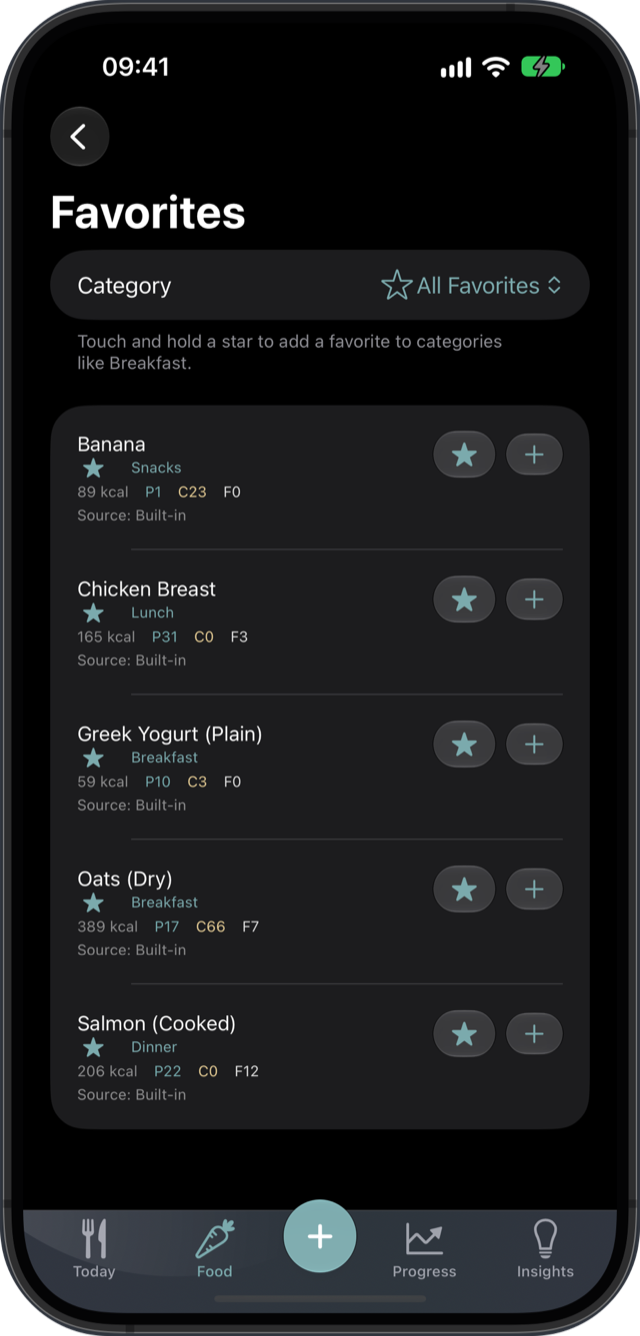
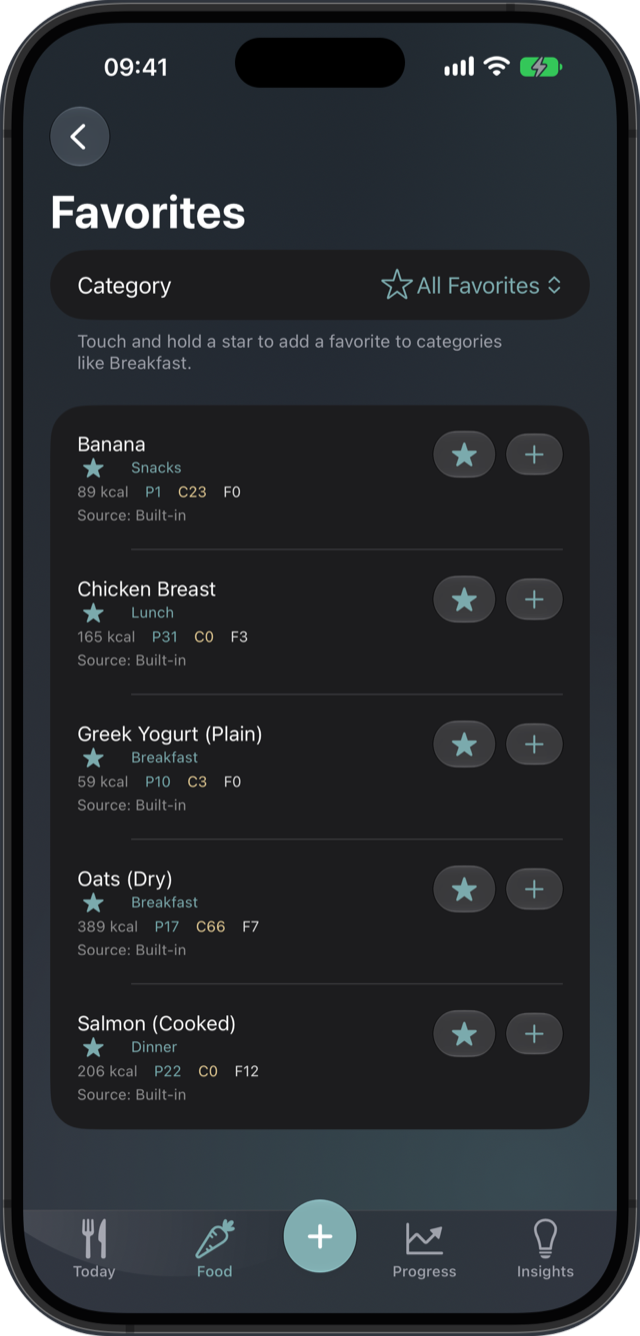
DietApp Pro's page: the day as a watch face, on Apple Watch and as the Chrono widget
The watch section opens with the full-screen face and names the complications for the calories, each macro, water and a fast. The widgets' line and picture show the Chrono widget. Favorites is retaken on the app's backdrop.

diff --git a/dietapp/index.html b/dietapp/index.html
@@ -192,24 +192,25 @@
       <div class="section-head">
         <p class="eyebrow">On your wrist</p>
         <h2 id="watch-title">iPhone and Apple Watch</h2>
-        <p>The Apple Watch app comes with the iPhone app. See what's left of the day, log your usual meal
-          or a food you had lately in a tap, and add a glass of water, with the iPhone in another
+        <p>The Apple Watch app comes with the iPhone app. See the day as a watch face, log your usual
+          meal or a food you had lately in a tap, and add a glass of water, with the iPhone in another
           room.</p>
       </div>
       <figure class="device device-watch">
         <div class="watch-pair">
+          <img src="screenshots/devices/watch-face.png" width="502" height="582" loading="lazy"
+            alt="The day as a watch face on Apple Watch: 1,019 kcal left, the calories round the bezel
+              and protein, carbs and fat in three dials">
           <img src="screenshots/devices/watch-log.png" width="502" height="582" loading="lazy"
             alt="DietApp Pro on Apple Watch: 1,019 kcal left of 2,200, the macros and water in rings, and
               the usual breakfast to log in a tap">
-          <img src="screenshots/devices/watch-recent.png" width="502" height="582" loading="lazy"
-            alt="Foods logged lately on Apple Watch, each with its portion, its calories and a plus to log
-              it again">
           <img src="screenshots/devices/watch-water.png" width="502" height="582" loading="lazy"
             alt="Water on Apple Watch: 1.3 litres so far, and buttons that add 150, 250, 330 or 500 ml">
         </div>
-        <figcaption><strong>Apple Watch</strong><span>What's left of the day at a glance, your usual meal
-          and recent foods a tap away, water in one press, Quick Add for calories, and the fasting timer
-          to start or end a fast. A tap that was a mistake is undone from the same screen.</span></figcaption>
+        <figcaption><strong>Apple Watch</strong><span>The day as a watch face, with the calories round
+          the bezel and the macros in three dials; your usual meal and recent foods a tap away, water in
+          one press, Quick Add for calories, and the fasting timer to start or end a fast. Complications
+          put the calories, each macro, water and a running fast on the face you already wear.</span></figcaption>
       </figure>
     </div>
   </section>
@@ -257,7 +258,8 @@
             <li>Fiber, sodium, caffeine and twenty vitamins and minerals, if you want to see them.</li>
             <li>A fasting timer, and your food library a tap away when logging: favorites, recent and
               custom foods, saved meals and recipes.</li>
-            <li>A Home Screen widget with today's calories, macros and water.</li>
+            <li>Home Screen widgets: your day as a watch face, the calories round the bezel and the
+              macros in three dials, or the numbers you pick.</li>
           </ul>
         </div>
         <div class="step-visual">
@@ -266,8 +268,10 @@
               alt="The meals of the day: breakfast with its planned foods beside what was logged, and the
                 day's totals pinned above">
           </div>
-          <div class="phone" aria-hidden="true">
-            <img src="screenshots/04-favorites.png" width="640" height="1336" loading="lazy" alt="">
+          <div class="phone">
+            <img src="screenshots/13-chrono.png" width="640" height="1336" loading="lazy"
+              alt="The Chrono widget, large and small: 1,019 kcal left on a watch face, with protein, carbs
+                and fat, or water, fiber and the streak, in its three dials">
           </div>
         </div>
       </article>
@@ -408,7 +412,8 @@
           </span>
           <h3>On your wrist</h3>
           <p>The Apple Watch app keeps your favorites one tap from logged, adds a glass of water, and
-            shows what's left of the day. It works with the iPhone in another room.</p>
+            shows the day as a watch face. Complications put the calories and each macro on your own
+            face. It works with the iPhone in another room.</p>
         </article>
         <article class="card reveal">
           <span class="card-icon" aria-hidden="true">
